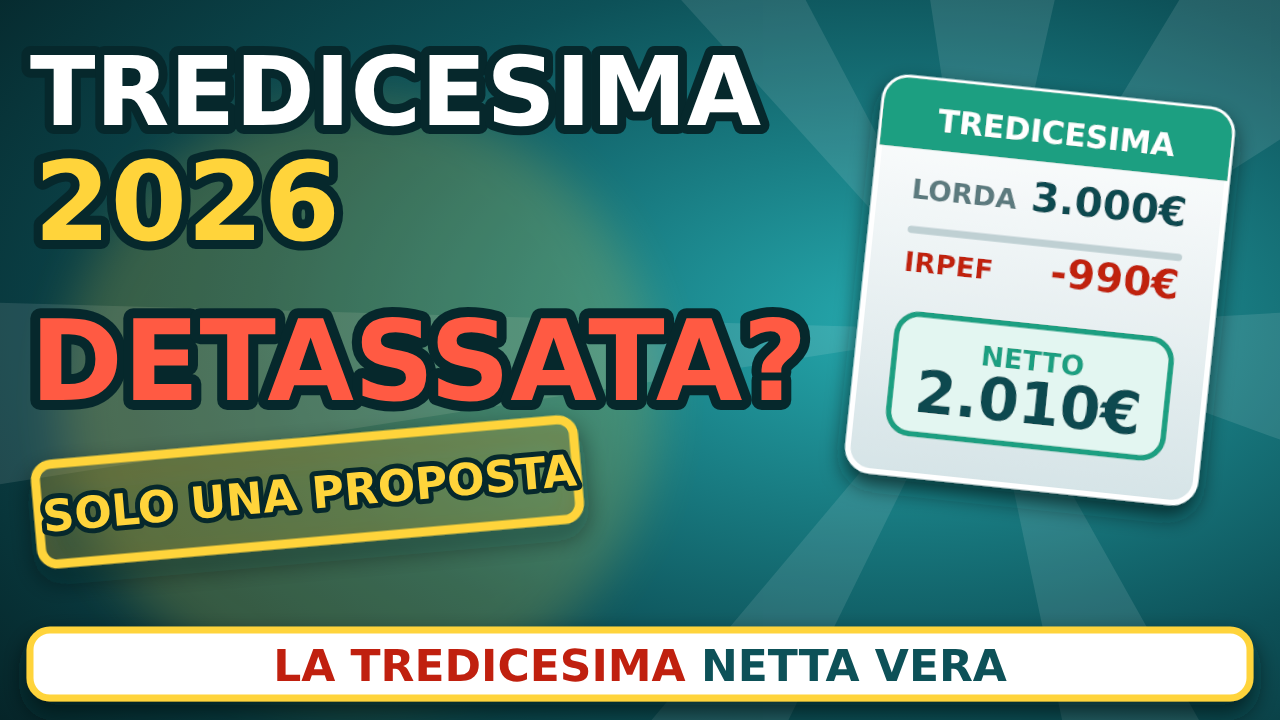
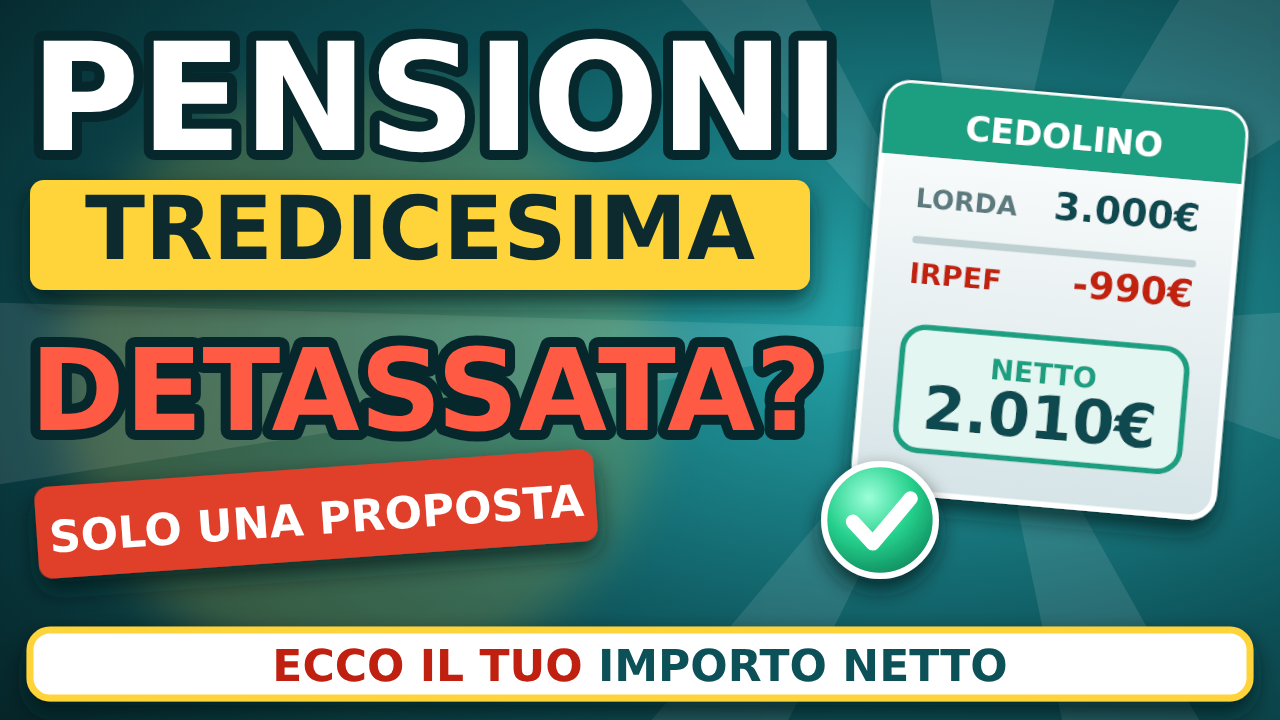
Video 5: miniature rifatte con PENSIONI grande come i virali
Claude-Session: https://claude.ai/code/session_01Gy7PMDRjbtFt7PTBbu8pPs

diff --git a/conti_in_pensione/16-video-lungo-5/miniatura/miniatura-B.html b/conti_in_pensione/16-video-lungo-5/miniatura/miniatura-B.html
@@ -11,11 +11,12 @@
 </defs>
 <rect width="1280" height="720" fill="url(#bg)"/>
 <g opacity="0.10" fill="#fff"><path d="M980 330 L500 -200 L700 -200Z"/><path d="M980 330 L900 -200 L1100 -200Z"/><path d="M980 330 L1300 -200 L1500 0Z"/><path d="M980 330 L1500 300 L1500 520Z"/><path d="M980 330 L1300 900 L1100 900Z"/><path d="M980 330 L700 900 L500 900Z"/><path d="M980 330 L-100 500 L-100 300Z"/></g>
-<circle cx="1000" cy="330" r="300" fill="#FFD43B" opacity="0.18" filter="url(#gl)"/>
-<g filter="url(#sh)"><rect x="40" y="40" width="700" height="570" rx="32" fill="url(#pp)" stroke="#fff" stroke-width="6"/><rect x="40" y="40" width="700" height="90" rx="32" fill="#1B9F81"/><rect x="40" y="90" width="700" height="40" fill="#1B9F81"/></g>
-<text x="90" y="102" class="t" font-size="38" fill="#fff">LORDA</text><text x="700" y="102" class="t" font-size="38" fill="#fff" text-anchor="end">NETTO</text><text x="390" y="104" class="t" font-size="50" fill="#FFD43B" text-anchor="middle">➜</text><text x="90" y="215" class="t" font-size="62" fill="#0B4A50">1.000€</text><text x="700" y="215" class="t" font-size="62" fill="#1B9F81" text-anchor="end">770€</text><line x1="70" y1="237" x2="730" y2="237" stroke="#C5D4D7" stroke-width="4"/><text x="90" y="330" class="t" font-size="62" fill="#0B4A50">1.500€</text><text x="700" y="330" class="t" font-size="62" fill="#1B9F81" text-anchor="end">1.155€</text><line x1="70" y1="352" x2="730" y2="352" stroke="#C5D4D7" stroke-width="4"/><text x="90" y="445" class="t" font-size="62" fill="#0B4A50">2.000€</text><text x="700" y="445" class="t" font-size="62" fill="#1B9F81" text-anchor="end">1.540€</text><line x1="70" y1="467" x2="730" y2="467" stroke="#C5D4D7" stroke-width="4"/><rect x="55" y="492" width="690" height="104" rx="20" fill="#FDE3DE"/><text x="90" y="560" class="t" font-size="62" fill="#0B4A50">3.000€</text><text x="700" y="560" class="t" font-size="76" fill="#C0200F" text-anchor="end">2.010€</text>
-<g transform="rotate(5 1020 90)" filter="url(#sh)"><rect x="800" y="40" width="440" height="90" rx="12" fill="#E0402A" stroke="#fff" stroke-width="5"/></g>
-<text x="1020" y="104" class="t" font-size="50" fill="#fff" text-anchor="middle" transform="rotate(5 1020 90)">⚠ ATTENZIONE</text>
-<g class="t" stroke="#06282C" stroke-linejoin="round" paint-order="stroke" stroke-width="16" text-anchor="middle"><text x="1020" y="260" font-size="58" fill="#fff">TREDICESIMA</text><text x="1020" y="365" font-size="86" fill="#FFD43B">QUANTO</text><text x="1020" y="465" font-size="86" fill="#FF5A43">ARRIVA?</text></g>
-<g filter="url(#sh)"><circle cx="1060" cy="545" r="78" fill="url(#ye)" stroke="#fff" stroke-width="6"/></g><text x="1060" y="540" class="t" font-size="22" fill="#7A3B00" text-anchor="middle">TUA PENSIONE?</text><text x="1060" y="575" class="t" font-size="22" fill="#7A3B00" text-anchor="middle">ECCO IL NETTO</text>
-<g filter="url(#sh)"><rect x="30" y="630" width="1220" height="68" rx="20" fill="#fff"/><rect x="30" y="630" width="1220" height="68" rx="20" fill="none" stroke="#FFD43B" stroke-width="7"/></g><text x="640" y="681" class="t" font-size="44" fill="#C0200F" text-anchor="middle">DA 1.000 A 3.000€: <tspan fill="#0D5158">IL NETTO DI DICEMBRE</tspan></text></svg></body></html>
+<circle cx="400" cy="330" r="300" fill="#FFD43B" opacity="0.16" filter="url(#gl)"/>
+<g class="t" stroke="#06282C" stroke-linejoin="round" paint-order="stroke" stroke-width="20"><text x="30" y="150" font-size="140" fill="#FFD43B">PENSIONI</text></g>
+<g class="t" stroke="#06282C" stroke-linejoin="round" paint-order="stroke" stroke-width="16"><text x="30" y="250" font-size="84" fill="#fff">TREDICESIMA</text></g>
+<g class="t" stroke="#06282C" stroke-linejoin="round" paint-order="stroke" stroke-width="14"><text x="30" y="345" font-size="64" fill="#FF5A43">QUANTO AUMENTA?</text></g>
+<g transform="rotate(0 380.0 435.0)"><g filter="url(#sh)"><rect x="30" y="385" width="700" height="100" rx="14" fill="#FFD43B"/></g><text x="380.0" y="457.0" class="t" font-size="66" fill="#0D2A2F" text-anchor="middle">TABELLA IMPORTI</text></g>
+<g transform="rotate(-3 290.0 555.0)"><g filter="url(#sh)"><rect x="30" y="515" width="520" height="80" rx="14" fill="#E0402A"/></g><text x="290.0" y="572.6" class="t" font-size="50" fill="#fff" text-anchor="middle">⚠ ATTENZIONE</text></g>
+<g filter="url(#sh)"><rect x="790" y="30" width="460" height="580" rx="30" fill="url(#pp)" stroke="#fff" stroke-width="6"/><rect x="790" y="30" width="460" height="86" rx="30" fill="#1B9F81"/><rect x="790" y="80" width="460" height="36" fill="#1B9F81"/></g>
+<text x="830" y="90" class="t" font-size="34" fill="#fff">LORDA</text><text x="1210" y="90" class="t" font-size="34" fill="#fff" text-anchor="end">NETTA</text><text x="1020" y="92" class="t" font-size="44" fill="#FFD43B" text-anchor="middle">➜</text><text x="830" y="200" class="t" font-size="42" fill="#0B4A50">1.000€</text><text x="1210" y="200" class="t" font-size="42" fill="#1B9F81" text-anchor="end">770€</text><line x1="810" y1="222" x2="1230" y2="222" stroke="#C5D4D7" stroke-width="4"/><text x="830" y="322" class="t" font-size="42" fill="#0B4A50">1.500€</text><text x="1210" y="322" class="t" font-size="42" fill="#1B9F81" text-anchor="end">1.155€</text><line x1="810" y1="344" x2="1230" y2="344" stroke="#C5D4D7" stroke-width="4"/><text x="830" y="444" class="t" font-size="42" fill="#0B4A50">2.000€</text><text x="1210" y="444" class="t" font-size="42" fill="#1B9F81" text-anchor="end">1.540€</text><line x1="810" y1="466" x2="1230" y2="466" stroke="#C5D4D7" stroke-width="4"/><rect x="802" y="504" width="436" height="100" rx="18" fill="#FDE3DE"/><text x="830" y="566" class="t" font-size="42" fill="#0B4A50">3.000€</text><text x="1210" y="566" class="t" font-size="46" fill="#C0200F" text-anchor="end">2.010€</text>
+<g filter="url(#sh)"><rect x="30" y="630" width="1220" height="68" rx="20" fill="#fff"/><rect x="30" y="630" width="1220" height="68" rx="20" fill="none" stroke="#FFD43B" stroke-width="7"/></g><text x="640" y="681" class="t" font-size="44" fill="#C0200F" text-anchor="middle">TUTTI GLI IMPORTI <tspan fill="#0D5158">NETTI DI DICEMBRE</tspan></text></svg></body></html>

diff --git a/conti_in_pensione/16-video-lungo-5/miniatura/miniatura-A.html b/conti_in_pensione/16-video-lungo-5/miniatura/miniatura-A.html
@@ -11,18 +11,19 @@
 </defs>
 <rect width="1280" height="720" fill="url(#bg)"/>
 <g opacity="0.10" fill="#fff"><path d="M980 330 L500 -200 L700 -200Z"/><path d="M980 330 L900 -200 L1100 -200Z"/><path d="M980 330 L1300 -200 L1500 0Z"/><path d="M980 330 L1500 300 L1500 520Z"/><path d="M980 330 L1300 900 L1100 900Z"/><path d="M980 330 L700 900 L500 900Z"/><path d="M980 330 L-100 500 L-100 300Z"/></g>
-<circle cx="360" cy="400" r="300" fill="#FFD43B" opacity="0.18" filter="url(#gl)"/>
-<g class="t" stroke="#06282C" stroke-linejoin="round" paint-order="stroke" stroke-width="18"><text x="30" y="125" font-size="96" fill="#fff">TREDICESIMA</text><text x="34" y="240" font-size="110" fill="#FFD43B">2026</text></g>
-<g class="t" stroke="#06282C" stroke-linejoin="round" paint-order="stroke" stroke-width="20"><text x="30" y="400" font-size="112" fill="#FF5A43">DETASSATA?</text></g>
-<g transform="rotate(-5 330 520)" filter="url(#sh)"><rect x="40" y="440" width="540" height="100" rx="16" fill="none" stroke="#FFD43B" stroke-width="9"/><rect x="40" y="440" width="540" height="100" rx="16" fill="#FFD43B" opacity="0.15"/></g>
-<text x="312" y="507" class="t" font-size="44" fill="#FFD43B" text-anchor="middle" transform="rotate(-5 330 520)" stroke="#06282C" stroke-linejoin="round" paint-order="stroke" stroke-width="10">SOLO UNA PROPOSTA</text>
-<g transform="translate(1040 290) rotate(6) scale(0.92)" filter="url(#sh)"><rect x="-190" y="-215" width="380" height="430" rx="26" fill="url(#pp)" stroke="#fff" stroke-width="6"/>
+<circle cx="360" cy="380" r="300" fill="#FFD43B" opacity="0.18" filter="url(#gl)"/>
+<g class="t" stroke="#06282C" stroke-linejoin="round" paint-order="stroke" stroke-width="20"><text x="30" y="150" font-size="150" fill="#fff">PENSIONI</text></g>
+<g transform="rotate(0 420.0 235.0)"><g filter="url(#sh)"><rect x="30" y="180" width="780" height="110" rx="14" fill="#FFD43B"/></g><text x="420.0" y="259.2" class="t" font-size="88" fill="#0D2A2F" text-anchor="middle">TREDICESIMA</text></g>
+<g class="t" stroke="#06282C" stroke-linejoin="round" paint-order="stroke" stroke-width="20"><text x="30" y="430" font-size="114" fill="#FF5A43">DETASSATA?</text></g>
+<g transform="rotate(-4 316.0 514.0)"><g filter="url(#sh)"><rect x="36" y="468" width="560" height="92" rx="14" fill="#E0402A"/></g><text x="316.0" y="534.24" class="t" font-size="44" fill="#fff" text-anchor="middle">SOLO UNA PROPOSTA</text></g>
+<g transform="translate(1050 300) rotate(5) scale(0.95)" filter="url(#sh)"><rect x="-190" y="-215" width="380" height="430" rx="26" fill="url(#pp)" stroke="#fff" stroke-width="6"/>
 <rect x="-190" y="-215" width="380" height="76" rx="26" fill="#1B9F81"/><rect x="-190" y="-185" width="380" height="46" fill="#1B9F81"/>
-<text x="0" y="-160" class="t" font-size="34" fill="#fff" text-anchor="middle">TREDICESIMA</text>
-<text x="-150" y="-85" class="t" font-size="30" fill="#5B7A7E">LORDA</text><text x="150" y="-85" class="t" font-size="44" fill="#0B4A50" text-anchor="end">3.000€</text>
+<text x="0" y="-160" class="t" font-size="36" fill="#fff" text-anchor="middle">CEDOLINO</text>
+<text x="-150" y="-85" class="t" font-size="28" fill="#5B7A7E">LORDA</text><text x="150" y="-85" class="t" font-size="40" fill="#0B4A50" text-anchor="end">3.000€</text>
 <rect x="-150" y="-55" width="300" height="8" rx="4" fill="#BFD0D3"/>
-<text x="-150" y="-5" class="t" font-size="30" fill="#C0200F">IRPEF</text><text x="150" y="-5" class="t" font-size="44" fill="#C0200F" text-anchor="end">-990€</text>
+<text x="-150" y="-5" class="t" font-size="30" fill="#C0200F">IRPEF</text><text x="150" y="-5" class="t" font-size="40" fill="#C0200F" text-anchor="end">-990€</text>
 <rect x="-150" y="40" width="300" height="130" rx="24" fill="#E3F6F1" stroke="#1B9F81" stroke-width="6"/>
 <text x="0" y="88" class="t" font-size="30" fill="#1B9F81" text-anchor="middle">NETTO</text>
 <text x="0" y="146" class="t" font-size="64" fill="#0B4A50" text-anchor="middle">2.010€</text></g>
-<g filter="url(#sh)"><rect x="30" y="630" width="1220" height="68" rx="20" fill="#fff"/><rect x="30" y="630" width="1220" height="68" rx="20" fill="none" stroke="#FFD43B" stroke-width="7"/></g><text x="640" y="681" class="t" font-size="44" fill="#C0200F" text-anchor="middle">LA TREDICESIMA <tspan fill="#0D5158">NETTA VERA</tspan></text></svg></body></html>
+<g transform="translate(880 520) scale(0.9)"><g filter="url(#sh)"><circle cx="0" cy="0" r="62" fill="url(#gr)" stroke="#fff" stroke-width="7"/></g><path d="M-30 2 L-8 26 L34 -24" fill="none" stroke="#fff" stroke-width="16" stroke-linecap="round" stroke-linejoin="round"/></g>
+<g filter="url(#sh)"><rect x="30" y="630" width="1220" height="68" rx="20" fill="#fff"/><rect x="30" y="630" width="1220" height="68" rx="20" fill="none" stroke="#FFD43B" stroke-width="7"/></g><text x="640" y="681" class="t" font-size="44" fill="#C0200F" text-anchor="middle">ECCO IL TUO <tspan fill="#0D5158">IMPORTO NETTO</tspan></text></svg></body></html>

diff --git a/conti_in_pensione/16-video-lungo-5/miniatura/vecchie-senza-pensioni/miniatura-B.html b/conti_in_pensione/16-video-lungo-5/miniatura/vecchie-senza-pensioni/miniatura-B.html
@@ -1,0 +1,21 @@
+<!doctype html><html><head><meta charset="utf-8"><style>html,body{margin:0;background:#000}svg{display:block}.t{font-family:'DejaVu Sans','Liberation Sans',Arial,sans-serif;font-weight:900}</style></head><body>
+<svg xmlns="http://www.w3.org/2000/svg" width="1280" height="720" viewBox="0 0 1280 720">
+<defs>
+<radialGradient id="bg" cx="0.7" cy="0.45" r="1"><stop offset="0" stop-color="#25A9AE"/><stop offset="0.5" stop-color="#0D5158"/><stop offset="1" stop-color="#03181B"/></radialGradient>
+<radialGradient id="gr" cx="0.4" cy="0.3" r="0.8"><stop offset="0" stop-color="#9CFFD9"/><stop offset="0.5" stop-color="#25D08C"/><stop offset="1" stop-color="#0B7C54"/></radialGradient>
+<radialGradient id="re" cx="0.4" cy="0.3" r="0.8"><stop offset="0" stop-color="#FFB3A3"/><stop offset="0.5" stop-color="#F0503A"/><stop offset="1" stop-color="#9E2112"/></radialGradient>
+<radialGradient id="ye" cx="0.4" cy="0.3" r="0.8"><stop offset="0" stop-color="#FFF3A8"/><stop offset="0.5" stop-color="#FFD43B"/><stop offset="1" stop-color="#C08A00"/></radialGradient>
+<linearGradient id="pp" x1="0" y1="0" x2="0" y2="1"><stop offset="0" stop-color="#FFFFFF"/><stop offset="1" stop-color="#D6E4E7"/></linearGradient>
+<filter id="sh" x="-30%" y="-30%" width="170%" height="170%"><feDropShadow dx="0" dy="12" stdDeviation="12" flood-color="#021A1D" flood-opacity="0.75"/></filter>
+<filter id="gl"><feGaussianBlur stdDeviation="24"/></filter>
+</defs>
+<rect width="1280" height="720" fill="url(#bg)"/>
+<g opacity="0.10" fill="#fff"><path d="M980 330 L500 -200 L700 -200Z"/><path d="M980 330 L900 -200 L1100 -200Z"/><path d="M980 330 L1300 -200 L1500 0Z"/><path d="M980 330 L1500 300 L1500 520Z"/><path d="M980 330 L1300 900 L1100 900Z"/><path d="M980 330 L700 900 L500 900Z"/><path d="M980 330 L-100 500 L-100 300Z"/></g>
+<circle cx="1000" cy="330" r="300" fill="#FFD43B" opacity="0.18" filter="url(#gl)"/>
+<g filter="url(#sh)"><rect x="40" y="40" width="700" height="570" rx="32" fill="url(#pp)" stroke="#fff" stroke-width="6"/><rect x="40" y="40" width="700" height="90" rx="32" fill="#1B9F81"/><rect x="40" y="90" width="700" height="40" fill="#1B9F81"/></g>
+<text x="90" y="102" class="t" font-size="38" fill="#fff">LORDA</text><text x="700" y="102" class="t" font-size="38" fill="#fff" text-anchor="end">NETTO</text><text x="390" y="104" class="t" font-size="50" fill="#FFD43B" text-anchor="middle">➜</text><text x="90" y="215" class="t" font-size="62" fill="#0B4A50">1.000€</text><text x="700" y="215" class="t" font-size="62" fill="#1B9F81" text-anchor="end">770€</text><line x1="70" y1="237" x2="730" y2="237" stroke="#C5D4D7" stroke-width="4"/><text x="90" y="330" class="t" font-size="62" fill="#0B4A50">1.500€</text><text x="700" y="330" class="t" font-size="62" fill="#1B9F81" text-anchor="end">1.155€</text><line x1="70" y1="352" x2="730" y2="352" stroke="#C5D4D7" stroke-width="4"/><text x="90" y="445" class="t" font-size="62" fill="#0B4A50">2.000€</text><text x="700" y="445" class="t" font-size="62" fill="#1B9F81" text-anchor="end">1.540€</text><line x1="70" y1="467" x2="730" y2="467" stroke="#C5D4D7" stroke-width="4"/><rect x="55" y="492" width="690" height="104" rx="20" fill="#FDE3DE"/><text x="90" y="560" class="t" font-size="62" fill="#0B4A50">3.000€</text><text x="700" y="560" class="t" font-size="76" fill="#C0200F" text-anchor="end">2.010€</text>
+<g transform="rotate(5 1020 90)" filter="url(#sh)"><rect x="800" y="40" width="440" height="90" rx="12" fill="#E0402A" stroke="#fff" stroke-width="5"/></g>
+<text x="1020" y="104" class="t" font-size="50" fill="#fff" text-anchor="middle" transform="rotate(5 1020 90)">⚠ ATTENZIONE</text>
+<g class="t" stroke="#06282C" stroke-linejoin="round" paint-order="stroke" stroke-width="16" text-anchor="middle"><text x="1020" y="260" font-size="58" fill="#fff">TREDICESIMA</text><text x="1020" y="365" font-size="86" fill="#FFD43B">QUANTO</text><text x="1020" y="465" font-size="86" fill="#FF5A43">ARRIVA?</text></g>
+<g filter="url(#sh)"><circle cx="1060" cy="545" r="78" fill="url(#ye)" stroke="#fff" stroke-width="6"/></g><text x="1060" y="540" class="t" font-size="22" fill="#7A3B00" text-anchor="middle">TUA PENSIONE?</text><text x="1060" y="575" class="t" font-size="22" fill="#7A3B00" text-anchor="middle">ECCO IL NETTO</text>
+<g filter="url(#sh)"><rect x="30" y="630" width="1220" height="68" rx="20" fill="#fff"/><rect x="30" y="630" width="1220" height="68" rx="20" fill="none" stroke="#FFD43B" stroke-width="7"/></g><text x="640" y="681" class="t" font-size="44" fill="#C0200F" text-anchor="middle">DA 1.000 A 3.000€: <tspan fill="#0D5158">IL NETTO DI DICEMBRE</tspan></text></svg></body></html>

diff --git a/conti_in_pensione/16-video-lungo-5/miniatura/miniatura-C.html b/conti_in_pensione/16-video-lungo-5/miniatura/miniatura-C.html
@@ -11,12 +11,12 @@
 </defs>
 <rect width="1280" height="720" fill="url(#bg)"/>
 <g opacity="0.10" fill="#fff"><path d="M980 330 L500 -200 L700 -200Z"/><path d="M980 330 L900 -200 L1100 -200Z"/><path d="M980 330 L1300 -200 L1500 0Z"/><path d="M980 330 L1500 300 L1500 520Z"/><path d="M980 330 L1300 900 L1100 900Z"/><path d="M980 330 L700 900 L500 900Z"/><path d="M980 330 L-100 500 L-100 300Z"/></g>
-<circle cx="640" cy="330" r="330" fill="#FF5A43" opacity="0.18" filter="url(#gl)"/>
-<g filter="url(#sh)"><circle cx="150" cy="150" r="115" fill="url(#re)" stroke="#fff" stroke-width="8"/><circle cx="1130" cy="150" r="115" fill="url(#gr)" stroke="#fff" stroke-width="8"/></g>
-<g class="t" text-anchor="middle" stroke="#06282C" stroke-linejoin="round" paint-order="stroke" stroke-width="10"><text x="150" y="170" font-size="52" fill="#fff">3.000€</text><text x="1130" y="170" font-size="52" fill="#fff">2.010€</text></g>
-<g class="t" text-anchor="middle" font-size="36" fill="#fff" stroke="#06282C" stroke-linejoin="round" paint-order="stroke" stroke-width="8"><text x="150" y="300">LORDA</text><text x="1130" y="300">NETTA</text></g>
-<path d="M300 150 L520 150" stroke="#FFD43B" stroke-width="22" stroke-linecap="round" stroke-dasharray="1 40"/><path d="M760 150 L930 150" stroke="#FFD43B" stroke-width="22" stroke-linecap="round" stroke-dasharray="1 40"/><path d="M930 112 L995 150 L930 188Z" fill="#FFD43B" stroke="#06282C" stroke-width="6" stroke-linejoin="round"/>
-<g class="t" text-anchor="middle" stroke="#06282C" stroke-linejoin="round" paint-order="stroke" stroke-width="14"><text x="640" y="95" font-size="58" fill="#fff">TREDICESIMA</text></g>
-<g class="t" text-anchor="middle" stroke="#06282C" stroke-linejoin="round" paint-order="stroke" stroke-width="26"><text x="640" y="470" font-size="270" fill="#FF5A43" letter-spacing="-8">-990€</text></g>
-<g class="t" text-anchor="middle" stroke="#06282C" stroke-linejoin="round" paint-order="stroke" stroke-width="12"><text x="640" y="580" font-size="66" fill="#FFD43B">QUASI MILLE EURO IN MENO</text></g>
-<g filter="url(#sh)"><rect x="30" y="630" width="1220" height="68" rx="20" fill="#fff"/><rect x="30" y="630" width="1220" height="68" rx="20" fill="none" stroke="#FFD43B" stroke-width="7"/></g><text x="640" y="681" class="t" font-size="44" fill="#C0200F" text-anchor="middle">LA TREDICESIMA DA 3.000€: <tspan fill="#0D5158">IL CONTO VERO</tspan></text></svg></body></html>
+<circle cx="640" cy="360" r="330" fill="#FF5A43" opacity="0.18" filter="url(#gl)"/>
+<g filter="url(#sh)"><circle cx="135" cy="150" r="108" fill="url(#re)" stroke="#fff" stroke-width="8"/><circle cx="1145" cy="150" r="108" fill="url(#gr)" stroke="#fff" stroke-width="8"/></g>
+<g class="t" text-anchor="middle" stroke="#06282C" stroke-linejoin="round" paint-order="stroke" stroke-width="10"><text x="135" y="168" font-size="46" fill="#fff">3.000€</text><text x="1145" y="168" font-size="46" fill="#fff">2.010€</text></g>
+<g class="t" text-anchor="middle" font-size="34" fill="#fff" stroke="#06282C" stroke-linejoin="round" paint-order="stroke" stroke-width="8"><text x="135" y="285">LORDA</text><text x="1145" y="285">NETTA</text></g>
+<g class="t" text-anchor="middle" stroke="#06282C" stroke-linejoin="round" paint-order="stroke" stroke-width="18"><text x="640" y="135" font-size="132" fill="#fff">PENSIONI</text></g>
+<g class="t" text-anchor="middle" stroke="#06282C" stroke-linejoin="round" paint-order="stroke" stroke-width="14"><text x="640" y="225" font-size="80" fill="#FFD43B">TREDICESIMA</text></g>
+<g class="t" text-anchor="middle" stroke="#06282C" stroke-linejoin="round" paint-order="stroke" stroke-width="26"><text x="640" y="470" font-size="240" fill="#FF5A43" letter-spacing="-8">-990€</text></g>
+<g class="t" text-anchor="middle" stroke="#06282C" stroke-linejoin="round" paint-order="stroke" stroke-width="12"><text x="640" y="580" font-size="62" fill="#FFD43B">QUASI MILLE EURO IN MENO</text></g>
+<g filter="url(#sh)"><rect x="30" y="630" width="1220" height="68" rx="20" fill="#fff"/><rect x="30" y="630" width="1220" height="68" rx="20" fill="none" stroke="#FFD43B" stroke-width="7"/></g><text x="640" y="681" class="t" font-size="44" fill="#C0200F" text-anchor="middle">PENSIONE DA 3.000€: <tspan fill="#0D5158">IL CONTO VERO</tspan></text></svg></body></html>

diff --git a/conti_in_pensione/16-video-lungo-5/miniatura/vecchie-senza-pensioni/miniatura-A.html b/conti_in_pensione/16-video-lungo-5/miniatura/vecchie-senza-pensioni/miniatura-A.html
@@ -1,0 +1,28 @@
+<!doctype html><html><head><meta charset="utf-8"><style>html,body{margin:0;background:#000}svg{display:block}.t{font-family:'DejaVu Sans','Liberation Sans',Arial,sans-serif;font-weight:900}</style></head><body>
+<svg xmlns="http://www.w3.org/2000/svg" width="1280" height="720" viewBox="0 0 1280 720">
+<defs>
+<radialGradient id="bg" cx="0.7" cy="0.45" r="1"><stop offset="0" stop-color="#25A9AE"/><stop offset="0.5" stop-color="#0D5158"/><stop offset="1" stop-color="#03181B"/></radialGradient>
+<radialGradient id="gr" cx="0.4" cy="0.3" r="0.8"><stop offset="0" stop-color="#9CFFD9"/><stop offset="0.5" stop-color="#25D08C"/><stop offset="1" stop-color="#0B7C54"/></radialGradient>
+<radialGradient id="re" cx="0.4" cy="0.3" r="0.8"><stop offset="0" stop-color="#FFB3A3"/><stop offset="0.5" stop-color="#F0503A"/><stop offset="1" stop-color="#9E2112"/></radialGradient>
+<radialGradient id="ye" cx="0.4" cy="0.3" r="0.8"><stop offset="0" stop-color="#FFF3A8"/><stop offset="0.5" stop-color="#FFD43B"/><stop offset="1" stop-color="#C08A00"/></radialGradient>
+<linearGradient id="pp" x1="0" y1="0" x2="0" y2="1"><stop offset="0" stop-color="#FFFFFF"/><stop offset="1" stop-color="#D6E4E7"/></linearGradient>
+<filter id="sh" x="-30%" y="-30%" width="170%" height="170%"><feDropShadow dx="0" dy="12" stdDeviation="12" flood-color="#021A1D" flood-opacity="0.75"/></filter>
+<filter id="gl"><feGaussianBlur stdDeviation="24"/></filter>
+</defs>
+<rect width="1280" height="720" fill="url(#bg)"/>
+<g opacity="0.10" fill="#fff"><path d="M980 330 L500 -200 L700 -200Z"/><path d="M980 330 L900 -200 L1100 -200Z"/><path d="M980 330 L1300 -200 L1500 0Z"/><path d="M980 330 L1500 300 L1500 520Z"/><path d="M980 330 L1300 900 L1100 900Z"/><path d="M980 330 L700 900 L500 900Z"/><path d="M980 330 L-100 500 L-100 300Z"/></g>
+<circle cx="360" cy="400" r="300" fill="#FFD43B" opacity="0.18" filter="url(#gl)"/>
+<g class="t" stroke="#06282C" stroke-linejoin="round" paint-order="stroke" stroke-width="18"><text x="30" y="125" font-size="96" fill="#fff">TREDICESIMA</text><text x="34" y="240" font-size="110" fill="#FFD43B">2026</text></g>
+<g class="t" stroke="#06282C" stroke-linejoin="round" paint-order="stroke" stroke-width="20"><text x="30" y="400" font-size="112" fill="#FF5A43">DETASSATA?</text></g>
+<g transform="rotate(-5 330 520)" filter="url(#sh)"><rect x="40" y="440" width="540" height="100" rx="16" fill="none" stroke="#FFD43B" stroke-width="9"/><rect x="40" y="440" width="540" height="100" rx="16" fill="#FFD43B" opacity="0.15"/></g>
+<text x="312" y="507" class="t" font-size="44" fill="#FFD43B" text-anchor="middle" transform="rotate(-5 330 520)" stroke="#06282C" stroke-linejoin="round" paint-order="stroke" stroke-width="10">SOLO UNA PROPOSTA</text>
+<g transform="translate(1040 290) rotate(6) scale(0.92)" filter="url(#sh)"><rect x="-190" y="-215" width="380" height="430" rx="26" fill="url(#pp)" stroke="#fff" stroke-width="6"/>
+<rect x="-190" y="-215" width="380" height="76" rx="26" fill="#1B9F81"/><rect x="-190" y="-185" width="380" height="46" fill="#1B9F81"/>
+<text x="0" y="-160" class="t" font-size="34" fill="#fff" text-anchor="middle">TREDICESIMA</text>
+<text x="-150" y="-85" class="t" font-size="30" fill="#5B7A7E">LORDA</text><text x="150" y="-85" class="t" font-size="44" fill="#0B4A50" text-anchor="end">3.000€</text>
+<rect x="-150" y="-55" width="300" height="8" rx="4" fill="#BFD0D3"/>
+<text x="-150" y="-5" class="t" font-size="30" fill="#C0200F">IRPEF</text><text x="150" y="-5" class="t" font-size="44" fill="#C0200F" text-anchor="end">-990€</text>
+<rect x="-150" y="40" width="300" height="130" rx="24" fill="#E3F6F1" stroke="#1B9F81" stroke-width="6"/>
+<text x="0" y="88" class="t" font-size="30" fill="#1B9F81" text-anchor="middle">NETTO</text>
+<text x="0" y="146" class="t" font-size="64" fill="#0B4A50" text-anchor="middle">2.010€</text></g>
+<g filter="url(#sh)"><rect x="30" y="630" width="1220" height="68" rx="20" fill="#fff"/><rect x="30" y="630" width="1220" height="68" rx="20" fill="none" stroke="#FFD43B" stroke-width="7"/></g><text x="640" y="681" class="t" font-size="44" fill="#C0200F" text-anchor="middle">LA TREDICESIMA <tspan fill="#0D5158">NETTA VERA</tspan></text></svg></body></html>

diff --git a/conti_in_pensione/16-video-lungo-5/miniatura/vecchie-senza-pensioni/miniatura-C.html b/conti_in_pensione/16-video-lungo-5/miniatura/vecchie-senza-pensioni/miniatura-C.html
@@ -1,0 +1,22 @@
+<!doctype html><html><head><meta charset="utf-8"><style>html,body{margin:0;background:#000}svg{display:block}.t{font-family:'DejaVu Sans','Liberation Sans',Arial,sans-serif;font-weight:900}</style></head><body>
+<svg xmlns="http://www.w3.org/2000/svg" width="1280" height="720" viewBox="0 0 1280 720">
+<defs>
+<radialGradient id="bg" cx="0.7" cy="0.45" r="1"><stop offset="0" stop-color="#25A9AE"/><stop offset="0.5" stop-color="#0D5158"/><stop offset="1" stop-color="#03181B"/></radialGradient>
+<radialGradient id="gr" cx="0.4" cy="0.3" r="0.8"><stop offset="0" stop-color="#9CFFD9"/><stop offset="0.5" stop-color="#25D08C"/><stop offset="1" stop-color="#0B7C54"/></radialGradient>
+<radialGradient id="re" cx="0.4" cy="0.3" r="0.8"><stop offset="0" stop-color="#FFB3A3"/><stop offset="0.5" stop-color="#F0503A"/><stop offset="1" stop-color="#9E2112"/></radialGradient>
+<radialGradient id="ye" cx="0.4" cy="0.3" r="0.8"><stop offset="0" stop-color="#FFF3A8"/><stop offset="0.5" stop-color="#FFD43B"/><stop offset="1" stop-color="#C08A00"/></radialGradient>
+<linearGradient id="pp" x1="0" y1="0" x2="0" y2="1"><stop offset="0" stop-color="#FFFFFF"/><stop offset="1" stop-color="#D6E4E7"/></linearGradient>
+<filter id="sh" x="-30%" y="-30%" width="170%" height="170%"><feDropShadow dx="0" dy="12" stdDeviation="12" flood-color="#021A1D" flood-opacity="0.75"/></filter>
+<filter id="gl"><feGaussianBlur stdDeviation="24"/></filter>
+</defs>
+<rect width="1280" height="720" fill="url(#bg)"/>
+<g opacity="0.10" fill="#fff"><path d="M980 330 L500 -200 L700 -200Z"/><path d="M980 330 L900 -200 L1100 -200Z"/><path d="M980 330 L1300 -200 L1500 0Z"/><path d="M980 330 L1500 300 L1500 520Z"/><path d="M980 330 L1300 900 L1100 900Z"/><path d="M980 330 L700 900 L500 900Z"/><path d="M980 330 L-100 500 L-100 300Z"/></g>
+<circle cx="640" cy="330" r="330" fill="#FF5A43" opacity="0.18" filter="url(#gl)"/>
+<g filter="url(#sh)"><circle cx="150" cy="150" r="115" fill="url(#re)" stroke="#fff" stroke-width="8"/><circle cx="1130" cy="150" r="115" fill="url(#gr)" stroke="#fff" stroke-width="8"/></g>
+<g class="t" text-anchor="middle" stroke="#06282C" stroke-linejoin="round" paint-order="stroke" stroke-width="10"><text x="150" y="170" font-size="52" fill="#fff">3.000€</text><text x="1130" y="170" font-size="52" fill="#fff">2.010€</text></g>
+<g class="t" text-anchor="middle" font-size="36" fill="#fff" stroke="#06282C" stroke-linejoin="round" paint-order="stroke" stroke-width="8"><text x="150" y="300">LORDA</text><text x="1130" y="300">NETTA</text></g>
+<path d="M300 150 L520 150" stroke="#FFD43B" stroke-width="22" stroke-linecap="round" stroke-dasharray="1 40"/><path d="M760 150 L930 150" stroke="#FFD43B" stroke-width="22" stroke-linecap="round" stroke-dasharray="1 40"/><path d="M930 112 L995 150 L930 188Z" fill="#FFD43B" stroke="#06282C" stroke-width="6" stroke-linejoin="round"/>
+<g class="t" text-anchor="middle" stroke="#06282C" stroke-linejoin="round" paint-order="stroke" stroke-width="14"><text x="640" y="95" font-size="58" fill="#fff">TREDICESIMA</text></g>
+<g class="t" text-anchor="middle" stroke="#06282C" stroke-linejoin="round" paint-order="stroke" stroke-width="26"><text x="640" y="470" font-size="270" fill="#FF5A43" letter-spacing="-8">-990€</text></g>
+<g class="t" text-anchor="middle" stroke="#06282C" stroke-linejoin="round" paint-order="stroke" stroke-width="12"><text x="640" y="580" font-size="66" fill="#FFD43B">QUASI MILLE EURO IN MENO</text></g>
+<g filter="url(#sh)"><rect x="30" y="630" width="1220" height="68" rx="20" fill="#fff"/><rect x="30" y="630" width="1220" height="68" rx="20" fill="none" stroke="#FFD43B" stroke-width="7"/></g><text x="640" y="681" class="t" font-size="44" fill="#C0200F" text-anchor="middle">LA TREDICESIMA DA 3.000€: <tspan fill="#0D5158">IL CONTO VERO</tspan></text></svg></body></html>

diff --git a/conti_in_pensione/16-video-lungo-5/miniatura/gen.py b/conti_in_pensione/16-video-lungo-5/miniatura/gen.py
@@ -5,50 +5,57 @@ HEAD=re.search(r"HEAD='''(.*?)'''",src,re.S).group(1)
 S='stroke="#06282C" stroke-linejoin="round" paint-order="stroke"'
 END='</svg></body></html>'
 STRIP=lambda txt:f'<g filter="url(#sh)"><rect x="30" y="630" width="1220" height="68" rx="20" fill="#fff"/><rect x="30" y="630" width="1220" height="68" rx="20" fill="none" stroke="#FFD43B" stroke-width="7"/></g><text x="640" y="681" class="t" font-size="44" fill="#C0200F" text-anchor="middle">{txt}</text>'
-def card(x,y,r,sc,lordo,netto):
+def blocco(x,y,w,h,txt,fs,fill="#FFD43B",col="#0D2A2F",rot=0):
+    cx=x+w/2;cy=y+h/2
+    return f'<g transform="rotate({rot} {cx} {cy})"><g filter="url(#sh)"><rect x="{x}" y="{y}" width="{w}" height="{h}" rx="14" fill="{fill}"/></g><text x="{cx}" y="{y+h*0.72}" class="t" font-size="{fs}" fill="{col}" text-anchor="middle">{txt}</text></g>'
+CHECK='<g filter="url(#sh)"><circle cx="0" cy="0" r="62" fill="url(#gr)" stroke="#fff" stroke-width="7"/></g><path d="M-30 2 L-8 26 L34 -24" fill="none" stroke="#fff" stroke-width="16" stroke-linecap="round" stroke-linejoin="round"/>'
+ARROW='<path d="M0 0 L-120 60" stroke="#E0402A" stroke-width="22" stroke-linecap="round"/><path d="M-150 75 L-100 20 L-80 80Z" fill="#E0402A" stroke="#fff" stroke-width="5" stroke-linejoin="round"/>'
+def doc(x,y,r,sc):
     return f'''<g transform="translate({x} {y}) rotate({r}) scale({sc})" filter="url(#sh)"><rect x="-190" y="-215" width="380" height="430" rx="26" fill="url(#pp)" stroke="#fff" stroke-width="6"/>
 <rect x="-190" y="-215" width="380" height="76" rx="26" fill="#1B9F81"/><rect x="-190" y="-185" width="380" height="46" fill="#1B9F81"/>
-<text x="0" y="-160" class="t" font-size="34" fill="#fff" text-anchor="middle">TREDICESIMA</text>
-<text x="-150" y="-85" class="t" font-size="30" fill="#5B7A7E">LORDA</text><text x="150" y="-85" class="t" font-size="44" fill="#0B4A50" text-anchor="end">{lordo}</text>
+<text x="0" y="-160" class="t" font-size="36" fill="#fff" text-anchor="middle">CEDOLINO</text>
+<text x="-150" y="-85" class="t" font-size="28" fill="#5B7A7E">LORDA</text><text x="150" y="-85" class="t" font-size="40" fill="#0B4A50" text-anchor="end">3.000€</text>
 <rect x="-150" y="-55" width="300" height="8" rx="4" fill="#BFD0D3"/>
-<text x="-150" y="-5" class="t" font-size="30" fill="#C0200F">IRPEF</text><text x="150" y="-5" class="t" font-size="44" fill="#C0200F" text-anchor="end">-990€</text>
+<text x="-150" y="-5" class="t" font-size="30" fill="#C0200F">IRPEF</text><text x="150" y="-5" class="t" font-size="40" fill="#C0200F" text-anchor="end">-990€</text>
 <rect x="-150" y="40" width="300" height="130" rx="24" fill="#E3F6F1" stroke="#1B9F81" stroke-width="6"/>
 <text x="0" y="88" class="t" font-size="30" fill="#1B9F81" text-anchor="middle">NETTO</text>
-<text x="0" y="146" class="t" font-size="64" fill="#0B4A50" text-anchor="middle">{netto}</text></g>'''
-# A: DETASSATA? + timbro SOLO PROPOSTA
-A=HEAD+f'''<circle cx="360" cy="400" r="300" fill="#FFD43B" opacity="0.18" filter="url(#gl)"/>
-<g class="t" {S} stroke-width="18"><text x="30" y="125" font-size="96" fill="#fff">TREDICESIMA</text><text x="34" y="240" font-size="110" fill="#FFD43B">2026</text></g>
-<g class="t" {S} stroke-width="20"><text x="30" y="400" font-size="112" fill="#FF5A43">DETASSATA?</text></g>
-<g transform="rotate(-5 330 520)" filter="url(#sh)"><rect x="40" y="440" width="540" height="100" rx="16" fill="none" stroke="#FFD43B" stroke-width="9"/><rect x="40" y="440" width="540" height="100" rx="16" fill="#FFD43B" opacity="0.15"/></g>
-<text x="312" y="507" class="t" font-size="44" fill="#FFD43B" text-anchor="middle" transform="rotate(-5 330 520)" {S} stroke-width="10">SOLO UNA PROPOSTA</text>
-{card(1040,290,6,0.92,"3.000€","2.010€")}
-'''+STRIP('LA TREDICESIMA <tspan fill="#0D5158">NETTA VERA</tspan>')+END
-# B: tabella lordo -> netto
+<text x="0" y="146" class="t" font-size="64" fill="#0B4A50" text-anchor="middle">2.010€</text></g>'''
+# A: PENSIONI / TREDICESIMA / DETASSATA? + cedolino + spunta + freccia
+A=HEAD+f'''<circle cx="360" cy="380" r="300" fill="#FFD43B" opacity="0.18" filter="url(#gl)"/>
+<g class="t" {S} stroke-width="20"><text x="30" y="150" font-size="150" fill="#fff">PENSIONI</text></g>
+{blocco(30,180,780,110,"TREDICESIMA",88)}
+<g class="t" {S} stroke-width="20"><text x="30" y="430" font-size="114" fill="#FF5A43">DETASSATA?</text></g>
+{blocco(36,468,560,92,"SOLO UNA PROPOSTA",44,"#E0402A","#fff",-4)}
+{doc(1050,300,5,0.95)}
+<g transform="translate(880 520) scale(0.9)">{CHECK}</g>
+'''+STRIP('ECCO IL TUO <tspan fill="#0D5158">IMPORTO NETTO</tspan>')+END
+# B: PENSIONI + tabella importi
 rows=[("1.000€","770€",0),("1.500€","1.155€",0),("2.000€","1.540€",0),("3.000€","2.010€",1)]
-tb='''<g filter="url(#sh)"><rect x="40" y="40" width="700" height="570" rx="32" fill="url(#pp)" stroke="#fff" stroke-width="6"/><rect x="40" y="40" width="700" height="90" rx="32" fill="#1B9F81"/><rect x="40" y="90" width="700" height="40" fill="#1B9F81"/></g>
-<text x="90" y="102" class="t" font-size="38" fill="#fff">LORDA</text><text x="700" y="102" class="t" font-size="38" fill="#fff" text-anchor="end">NETTO</text><text x="390" y="104" class="t" font-size="50" fill="#FFD43B" text-anchor="middle">➜</text>'''
+tb='''<g filter="url(#sh)"><rect x="790" y="30" width="460" height="580" rx="30" fill="url(#pp)" stroke="#fff" stroke-width="6"/><rect x="790" y="30" width="460" height="86" rx="30" fill="#1B9F81"/><rect x="790" y="80" width="460" height="36" fill="#1B9F81"/></g>
+<text x="830" y="90" class="t" font-size="34" fill="#fff">LORDA</text><text x="1210" y="90" class="t" font-size="34" fill="#fff" text-anchor="end">NETTA</text><text x="1020" y="92" class="t" font-size="44" fill="#FFD43B" text-anchor="middle">➜</text>'''
 for i,(a,b,h) in enumerate(rows):
-    y=215+i*115
-    if h: tb+=f'<rect x="55" y="{y-68}" width="690" height="104" rx="20" fill="#FDE3DE"/>'
-    tb+=f'<text x="90" y="{y}" class="t" font-size="62" fill="#0B4A50">{a}</text><text x="700" y="{y}" class="t" font-size="{76 if h else 62}" fill="{"#C0200F" if h else "#1B9F81"}" text-anchor="end">{b}</text>'
-    if i<3: tb+=f'<line x1="70" y1="{y+22}" x2="730" y2="{y+22}" stroke="#C5D4D7" stroke-width="4"/>'
-B=HEAD+f'''<circle cx="1000" cy="330" r="300" fill="#FFD43B" opacity="0.18" filter="url(#gl)"/>
+    y=200+i*122
+    if h: tb+=f'<rect x="802" y="{y-62}" width="436" height="100" rx="18" fill="#FDE3DE"/>'
+    tb+=f'<text x="830" y="{y}" class="t" font-size="42" fill="#0B4A50">{a}</text><text x="1210" y="{y}" class="t" font-size="{46 if h else 42}" fill="{"#C0200F" if h else "#1B9F81"}" text-anchor="end">{b}</text>'
+    if i<3: tb+=f'<line x1="810" y1="{y+22}" x2="1230" y2="{y+22}" stroke="#C5D4D7" stroke-width="4"/>'
+B=HEAD+f'''<circle cx="400" cy="330" r="300" fill="#FFD43B" opacity="0.16" filter="url(#gl)"/>
+<g class="t" {S} stroke-width="20"><text x="30" y="150" font-size="140" fill="#FFD43B">PENSIONI</text></g>
+<g class="t" {S} stroke-width="16"><text x="30" y="250" font-size="84" fill="#fff">TREDICESIMA</text></g>
+<g class="t" {S} stroke-width="14"><text x="30" y="345" font-size="64" fill="#FF5A43">QUANTO AUMENTA?</text></g>
+{blocco(30,385,700,100,"TABELLA IMPORTI",66)}
+{blocco(30,515,520,80,"⚠ ATTENZIONE",50,"#E0402A","#fff",-3)}
 {tb}
-<g transform="rotate(5 1020 90)" filter="url(#sh)"><rect x="800" y="40" width="440" height="90" rx="12" fill="#E0402A" stroke="#fff" stroke-width="5"/></g>
-<text x="1020" y="104" class="t" font-size="50" fill="#fff" text-anchor="middle" transform="rotate(5 1020 90)">⚠ ATTENZIONE</text>
-<g class="t" {S} stroke-width="16" text-anchor="middle"><text x="1020" y="260" font-size="58" fill="#fff">TREDICESIMA</text><text x="1020" y="365" font-size="86" fill="#FFD43B">QUANTO</text><text x="1020" y="465" font-size="86" fill="#FF5A43">ARRIVA?</text></g>
-<g filter="url(#sh)"><circle cx="1060" cy="545" r="78" fill="url(#ye)" stroke="#fff" stroke-width="6"/></g><text x="1060" y="540" class="t" font-size="22" fill="#7A3B00" text-anchor="middle">TUA PENSIONE?</text><text x="1060" y="575" class="t" font-size="22" fill="#7A3B00" text-anchor="middle">ECCO IL NETTO</text>
-'''+STRIP('DA 1.000 A 3.000€: <tspan fill="#0D5158">IL NETTO DI DICEMBRE</tspan>')+END
+'''+STRIP('TUTTI GLI IMPORTI <tspan fill="#0D5158">NETTI DI DICEMBRE</tspan>')+END
 # C: -990 gigante
-C=HEAD+f'''<circle cx="640" cy="330" r="330" fill="#FF5A43" opacity="0.18" filter="url(#gl)"/>
-<g filter="url(#sh)"><circle cx="150" cy="150" r="115" fill="url(#re)" stroke="#fff" stroke-width="8"/><circle cx="1130" cy="150" r="115" fill="url(#gr)" stroke="#fff" stroke-width="8"/></g>
-<g class="t" text-anchor="middle" {S} stroke-width="10"><text x="150" y="170" font-size="52" fill="#fff">3.000€</text><text x="1130" y="170" font-size="52" fill="#fff">2.010€</text></g>
-<g class="t" text-anchor="middle" font-size="36" fill="#fff" {S} stroke-width="8"><text x="150" y="300">LORDA</text><text x="1130" y="300">NETTA</text></g>
-<path d="M300 150 L520 150" stroke="#FFD43B" stroke-width="22" stroke-linecap="round" stroke-dasharray="1 40"/><path d="M760 150 L930 150" stroke="#FFD43B" stroke-width="22" stroke-linecap="round" stroke-dasharray="1 40"/><path d="M930 112 L995 150 L930 188Z" fill="#FFD43B" stroke="#06282C" stroke-width="6" stroke-linejoin="round"/>
-<g class="t" text-anchor="middle" {S} stroke-width="14"><text x="640" y="95" font-size="58" fill="#fff">TREDICESIMA</text></g>
-<g class="t" text-anchor="middle" {S} stroke-width="26"><text x="640" y="470" font-size="270" fill="#FF5A43" letter-spacing="-8">-990€</text></g>
-<g class="t" text-anchor="middle" {S} stroke-width="12"><text x="640" y="580" font-size="66" fill="#FFD43B">QUASI MILLE EURO IN MENO</text></g>
-'''+STRIP('LA TREDICESIMA DA 3.000€: <tspan fill="#0D5158">IL CONTO VERO</tspan>')+END
+C=HEAD+f'''<circle cx="640" cy="360" r="330" fill="#FF5A43" opacity="0.18" filter="url(#gl)"/>
+<g filter="url(#sh)"><circle cx="135" cy="150" r="108" fill="url(#re)" stroke="#fff" stroke-width="8"/><circle cx="1145" cy="150" r="108" fill="url(#gr)" stroke="#fff" stroke-width="8"/></g>
+<g class="t" text-anchor="middle" {S} stroke-width="10"><text x="135" y="168" font-size="46" fill="#fff">3.000€</text><text x="1145" y="168" font-size="46" fill="#fff">2.010€</text></g>
+<g class="t" text-anchor="middle" font-size="34" fill="#fff" {S} stroke-width="8"><text x="135" y="285">LORDA</text><text x="1145" y="285">NETTA</text></g>
+<g class="t" text-anchor="middle" {S} stroke-width="18"><text x="640" y="135" font-size="132" fill="#fff">PENSIONI</text></g>
+<g class="t" text-anchor="middle" {S} stroke-width="14"><text x="640" y="225" font-size="80" fill="#FFD43B">TREDICESIMA</text></g>
+<g class="t" text-anchor="middle" {S} stroke-width="26"><text x="640" y="470" font-size="240" fill="#FF5A43" letter-spacing="-8">-990€</text></g>
+<g class="t" text-anchor="middle" {S} stroke-width="12"><text x="640" y="580" font-size="62" fill="#FFD43B">QUASI MILLE EURO IN MENO</text></g>
+'''+STRIP('PENSIONE DA 3.000€: <tspan fill="#0D5158">IL CONTO VERO</tspan>')+END
 async def main():
     async with async_playwright() as p:
         b=await p.chromium.launch(executable_path='/opt/pw-browsers/chromium-1194/chrome-linux/chrome')

diff --git a/conti_in_pensione/16-video-lungo-5/miniatura/vecchie-senza-pensioni/gen.py b/conti_in_pensione/16-video-lungo-5/miniatura/vecchie-senza-pensioni/gen.py
@@ -1,0 +1,60 @@
+import asyncio,os,re
+from playwright.async_api import async_playwright
+src=open('../../14-video-lungo-4-invalidita-2027/miniatura/vecchie-45cent/gen.py').read()
+HEAD=re.search(r"HEAD='''(.*?)'''",src,re.S).group(1)
+S='stroke="#06282C" stroke-linejoin="round" paint-order="stroke"'
+END='</svg></body></html>'
+STRIP=lambda txt:f'<g filter="url(#sh)"><rect x="30" y="630" width="1220" height="68" rx="20" fill="#fff"/><rect x="30" y="630" width="1220" height="68" rx="20" fill="none" stroke="#FFD43B" stroke-width="7"/></g><text x="640" y="681" class="t" font-size="44" fill="#C0200F" text-anchor="middle">{txt}</text>'
+def card(x,y,r,sc,lordo,netto):
+    return f'''<g transform="translate({x} {y}) rotate({r}) scale({sc})" filter="url(#sh)"><rect x="-190" y="-215" width="380" height="430" rx="26" fill="url(#pp)" stroke="#fff" stroke-width="6"/>
+<rect x="-190" y="-215" width="380" height="76" rx="26" fill="#1B9F81"/><rect x="-190" y="-185" width="380" height="46" fill="#1B9F81"/>
+<text x="0" y="-160" class="t" font-size="34" fill="#fff" text-anchor="middle">TREDICESIMA</text>
+<text x="-150" y="-85" class="t" font-size="30" fill="#5B7A7E">LORDA</text><text x="150" y="-85" class="t" font-size="44" fill="#0B4A50" text-anchor="end">{lordo}</text>
+<rect x="-150" y="-55" width="300" height="8" rx="4" fill="#BFD0D3"/>
+<text x="-150" y="-5" class="t" font-size="30" fill="#C0200F">IRPEF</text><text x="150" y="-5" class="t" font-size="44" fill="#C0200F" text-anchor="end">-990€</text>
+<rect x="-150" y="40" width="300" height="130" rx="24" fill="#E3F6F1" stroke="#1B9F81" stroke-width="6"/>
+<text x="0" y="88" class="t" font-size="30" fill="#1B9F81" text-anchor="middle">NETTO</text>
+<text x="0" y="146" class="t" font-size="64" fill="#0B4A50" text-anchor="middle">{netto}</text></g>'''
+# A: DETASSATA? + timbro SOLO PROPOSTA
+A=HEAD+f'''<circle cx="360" cy="400" r="300" fill="#FFD43B" opacity="0.18" filter="url(#gl)"/>
+<g class="t" {S} stroke-width="18"><text x="30" y="125" font-size="96" fill="#fff">TREDICESIMA</text><text x="34" y="240" font-size="110" fill="#FFD43B">2026</text></g>
+<g class="t" {S} stroke-width="20"><text x="30" y="400" font-size="112" fill="#FF5A43">DETASSATA?</text></g>
+<g transform="rotate(-5 330 520)" filter="url(#sh)"><rect x="40" y="440" width="540" height="100" rx="16" fill="none" stroke="#FFD43B" stroke-width="9"/><rect x="40" y="440" width="540" height="100" rx="16" fill="#FFD43B" opacity="0.15"/></g>
+<text x="312" y="507" class="t" font-size="44" fill="#FFD43B" text-anchor="middle" transform="rotate(-5 330 520)" {S} stroke-width="10">SOLO UNA PROPOSTA</text>
+{card(1040,290,6,0.92,"3.000€","2.010€")}
+'''+STRIP('LA TREDICESIMA <tspan fill="#0D5158">NETTA VERA</tspan>')+END
+# B: tabella lordo -> netto
+rows=[("1.000€","770€",0),("1.500€","1.155€",0),("2.000€","1.540€",0),("3.000€","2.010€",1)]
+tb='''<g filter="url(#sh)"><rect x="40" y="40" width="700" height="570" rx="32" fill="url(#pp)" stroke="#fff" stroke-width="6"/><rect x="40" y="40" width="700" height="90" rx="32" fill="#1B9F81"/><rect x="40" y="90" width="700" height="40" fill="#1B9F81"/></g>
+<text x="90" y="102" class="t" font-size="38" fill="#fff">LORDA</text><text x="700" y="102" class="t" font-size="38" fill="#fff" text-anchor="end">NETTO</text><text x="390" y="104" class="t" font-size="50" fill="#FFD43B" text-anchor="middle">➜</text>'''
+for i,(a,b,h) in enumerate(rows):
+    y=215+i*115
+    if h: tb+=f'<rect x="55" y="{y-68}" width="690" height="104" rx="20" fill="#FDE3DE"/>'
+    tb+=f'<text x="90" y="{y}" class="t" font-size="62" fill="#0B4A50">{a}</text><text x="700" y="{y}" class="t" font-size="{76 if h else 62}" fill="{"#C0200F" if h else "#1B9F81"}" text-anchor="end">{b}</text>'
+    if i<3: tb+=f'<line x1="70" y1="{y+22}" x2="730" y2="{y+22}" stroke="#C5D4D7" stroke-width="4"/>'
+B=HEAD+f'''<circle cx="1000" cy="330" r="300" fill="#FFD43B" opacity="0.18" filter="url(#gl)"/>
+{tb}
+<g transform="rotate(5 1020 90)" filter="url(#sh)"><rect x="800" y="40" width="440" height="90" rx="12" fill="#E0402A" stroke="#fff" stroke-width="5"/></g>
+<text x="1020" y="104" class="t" font-size="50" fill="#fff" text-anchor="middle" transform="rotate(5 1020 90)">⚠ ATTENZIONE</text>
+<g class="t" {S} stroke-width="16" text-anchor="middle"><text x="1020" y="260" font-size="58" fill="#fff">TREDICESIMA</text><text x="1020" y="365" font-size="86" fill="#FFD43B">QUANTO</text><text x="1020" y="465" font-size="86" fill="#FF5A43">ARRIVA?</text></g>
+<g filter="url(#sh)"><circle cx="1060" cy="545" r="78" fill="url(#ye)" stroke="#fff" stroke-width="6"/></g><text x="1060" y="540" class="t" font-size="22" fill="#7A3B00" text-anchor="middle">TUA PENSIONE?</text><text x="1060" y="575" class="t" font-size="22" fill="#7A3B00" text-anchor="middle">ECCO IL NETTO</text>
+'''+STRIP('DA 1.000 A 3.000€: <tspan fill="#0D5158">IL NETTO DI DICEMBRE</tspan>')+END
+# C: -990 gigante
+C=HEAD+f'''<circle cx="640" cy="330" r="330" fill="#FF5A43" opacity="0.18" filter="url(#gl)"/>
+<g filter="url(#sh)"><circle cx="150" cy="150" r="115" fill="url(#re)" stroke="#fff" stroke-width="8"/><circle cx="1130" cy="150" r="115" fill="url(#gr)" stroke="#fff" stroke-width="8"/></g>
+<g class="t" text-anchor="middle" {S} stroke-width="10"><text x="150" y="170" font-size="52" fill="#fff">3.000€</text><text x="1130" y="170" font-size="52" fill="#fff">2.010€</text></g>
+<g class="t" text-anchor="middle" font-size="36" fill="#fff" {S} stroke-width="8"><text x="150" y="300">LORDA</text><text x="1130" y="300">NETTA</text></g>
+<path d="M300 150 L520 150" stroke="#FFD43B" stroke-width="22" stroke-linecap="round" stroke-dasharray="1 40"/><path d="M760 150 L930 150" stroke="#FFD43B" stroke-width="22" stroke-linecap="round" stroke-dasharray="1 40"/><path d="M930 112 L995 150 L930 188Z" fill="#FFD43B" stroke="#06282C" stroke-width="6" stroke-linejoin="round"/>
+<g class="t" text-anchor="middle" {S} stroke-width="14"><text x="640" y="95" font-size="58" fill="#fff">TREDICESIMA</text></g>
+<g class="t" text-anchor="middle" {S} stroke-width="26"><text x="640" y="470" font-size="270" fill="#FF5A43" letter-spacing="-8">-990€</text></g>
+<g class="t" text-anchor="middle" {S} stroke-width="12"><text x="640" y="580" font-size="66" fill="#FFD43B">QUASI MILLE EURO IN MENO</text></g>
+'''+STRIP('LA TREDICESIMA DA 3.000€: <tspan fill="#0D5158">IL CONTO VERO</tspan>')+END
+async def main():
+    async with async_playwright() as p:
+        b=await p.chromium.launch(executable_path='/opt/pw-browsers/chromium-1194/chrome-linux/chrome')
+        pg=await b.new_page(viewport={'width':1280,'height':720})
+        for n,h in (('A',A),('B',B),('C',C)):
+            open(f'miniatura-{n}.html','w').write(h)
+            await pg.goto(f'file://{os.getcwd()}/miniatura-{n}.html'); await pg.screenshot(path=f'miniatura-{n}.png')
+        await b.close()
+asyncio.run(main())
